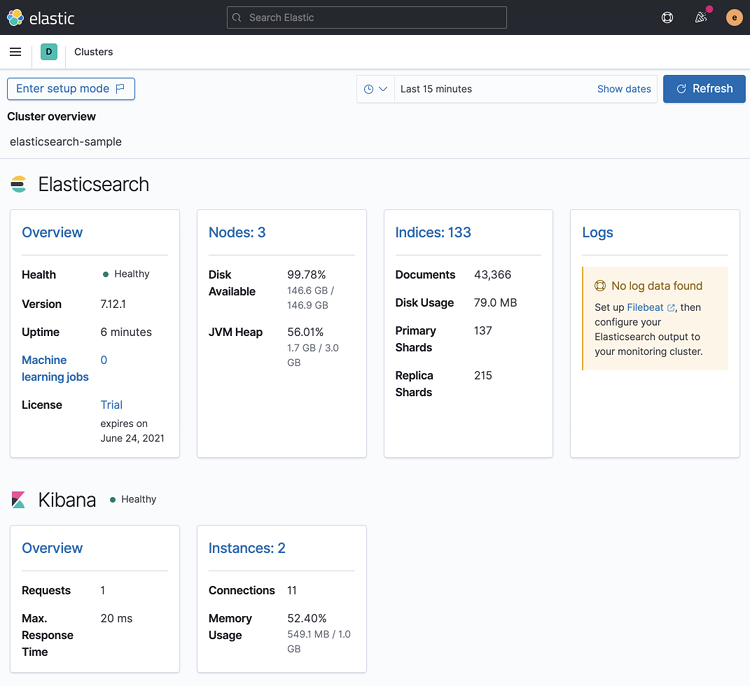
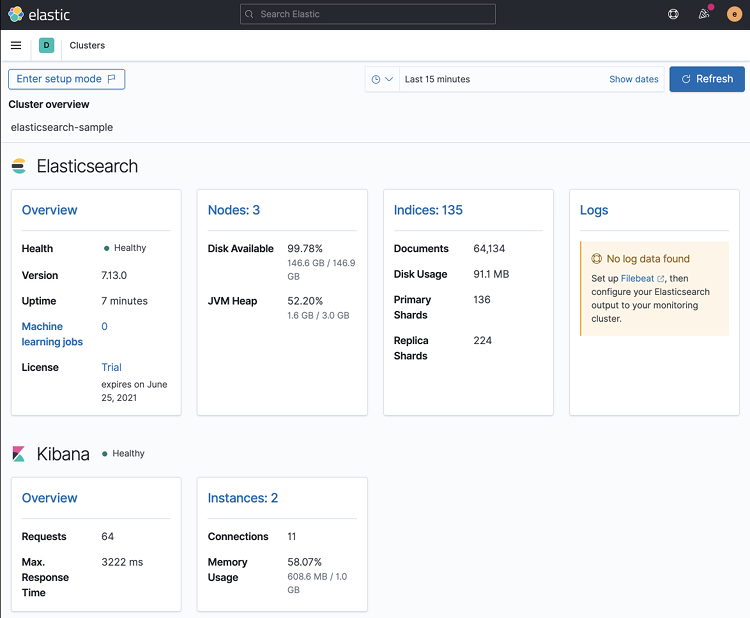
update to ECK 1.6 and Elastic Stack 7.12.1-7.13.0

diff --git a/basic/README.md b/basic/README.md
@@ -5,7 +5,7 @@
 - It's a simple definition for an Elastic Stack version `7.12.1`, with a one-node Elasticsearch cluster, an APM server, EnterpriseSearch and a single Kibana instance.
     - The Elasticsearch nodes in the example are configured to limit container resources to 2G memory and 1 CPU.
     - Pods can be [customized](https://www.elastic.co/guide/en/cloud-on-k8s/1.6/k8s-customize-pods.html) modifying the `pod template` to add parameters like the Elasticsearch heap. 
-    - The deployment will also mount on a 50Gb volume claim. Check the documentation for [Volume Claim Templates](https://www.elastic.co/guide/en/cloud-on-k8s/1.6/k8s-volume-claim-templates.html). Starting in version `1.3.0` ECK supports [Elasticsearch volume expansion](https://www.elastic.co/guide/en/cloud-on-k8s/1.3/release-notes-1.5.0.html#feature-1.3.0).
+    - The deployment will also mount on a 50Gb volume claim. Check the documentation for [Volume Claim Templates](https://www.elastic.co/guide/en/cloud-on-k8s/1.6/k8s-volume-claim-templates.html). Starting in version `1.3.0` ECK supports [Elasticsearch volume expansion](https://www.elastic.co/guide/en/cloud-on-k8s/1.3/release-notes-1.3.0.html#feature-1.3.0).
 
     ```shell
     kubectl apply -f basic-complete-elastic-stack.yaml
@@ -87,7 +87,7 @@
 
 - Once the external IP is available, we can visit our kibana at https://<EXTERNAL_IP>:5601/. In the example: https://34.77.8.197:5601/. 
 
-- The certificate presented to us is self-signed one and we'll have to bypass the browser warnings. We could have assigned a valid http certificate. See the [docs](https://www.elastic.co/guide/en/cloud-on-k8s/1.5/k8s-custom-http-certificate.html).
+- The certificate presented to us is self-signed one and we'll have to bypass the browser warnings. We could have assigned a valid http certificate. See the [docs](https://www.elastic.co/guide/en/cloud-on-k8s/1.6/k8s-custom-http-certificate.html).
 
 - The operator has created a secret for our superuser elastic. Let's go get it. Two options: via kubectl retrieve the password:
 
@@ -116,7 +116,7 @@
 
         ![Enterprise Search](./img/entsearch-2.png)
 
-- Elasticsearch has not been published, though we can always use port forwarding to access our cluster directly. In production, consider [trafic splitting](https://www.elastic.co/guide/en/cloud-on-k8s/1.5/k8s-traffic-splitting.html) to allow clients to access Elaticsearch.
+- Elasticsearch has not been published, though we can always use port forwarding to access our cluster directly. In production, consider [trafic splitting](https://www.elastic.co/guide/en/cloud-on-k8s/1.6/k8s-traffic-splitting.html) to allow clients to access Elaticsearch.
 
     ```shell
     kubectl port-forward service/elasticsearch-sample-es-http 9200
@@ -219,7 +219,7 @@
 
 ### Upgrading the Elastic Stack
 
-- We can now proceed to upgrade the whole stack. It will just require to edit the file [basic-complete-elastic-stack.yaml](basic-complete-elastic-stack.yaml) and replace all the `version: 7.11.2` with, for example, `version: 7.12.1` on all services (elasticsearch, apm, kibana, enterprise search).
+- We can now proceed to upgrade the whole stack. It will just require to edit the file [basic-complete-elastic-stack.yaml](basic-complete-elastic-stack.yaml) and replace all the `version: 7.12.1` with, for example, `version: 7.13.0` on all services (elasticsearch, apm, kibana, enterprise search).
 
     ```shell
     kubectl apply -f basic-complete-elastic-stack.yaml
@@ -242,15 +242,15 @@
 
 - As a default, the operator will do a rolling upgrade, one Elasticsearch instance at a time. It will terminate an instance and restart it in the newer version.
     - ECK uses StatefulSet-based orchestration from version `1.0+`. StatefulSets with ECK allow for even faster upgrades and configuration changes, since upgrades use the same persistent volume, rather than replicating data to the new nodes.
-    - We could also have changed the default [update strategy](https://www.elastic.co/guide/en/cloud-on-k8s/1.5/k8s-update-strategy.html) or the [Pod disruption budget](https://www.elastic.co/guide/en/cloud-on-k8s/1.5/k8s-pod-disruption-budget.html).
+    - We could also have changed the default [update strategy](https://www.elastic.co/guide/en/cloud-on-k8s/1.6/k8s-update-strategy.html) or the [Pod disruption budget](https://www.elastic.co/guide/en/cloud-on-k8s/1.6/k8s-pod-disruption-budget.html).
 
-- After upgrading Elasticsearch, ECK will take care of upgrading the whole stack. For Kibana, Enterprise Search and APM it will create new pods in version `7.12.1` to replace the old ones version `7.11.2`.
+- After upgrading Elasticsearch, ECK will take care of upgrading the whole stack. For Kibana, Enterprise Search and APM it will create new pods in version `7.13.0` to replace the old ones version `7.12.1`.
 
-- We can check the deployed instances using kubernetic. Visualizing any of the pod specifications we can see that they are now running version `7.12.1`.
+- We can check the deployed instances using kubernetic. Visualizing any of the pod specifications we can see that they are now running version `7.13.0`.
 
-    ![Elasticsearch version 7.12.1](./img/kubernetic-12.png)
+    ![Elasticsearch version 7.13.0](./img/kubernetic-12.png)
 
-- We can also see in the kibana monitoring UI the health of our cluster (green) with 3 nodes on version `7.12.1`
+- We can also see in the kibana monitoring UI the health of our cluster (green) with 3 nodes on version `7.13.0`
 
     ![Kibana monitoring](./img/kibana-monitoring-3-upgraded.png)
 
